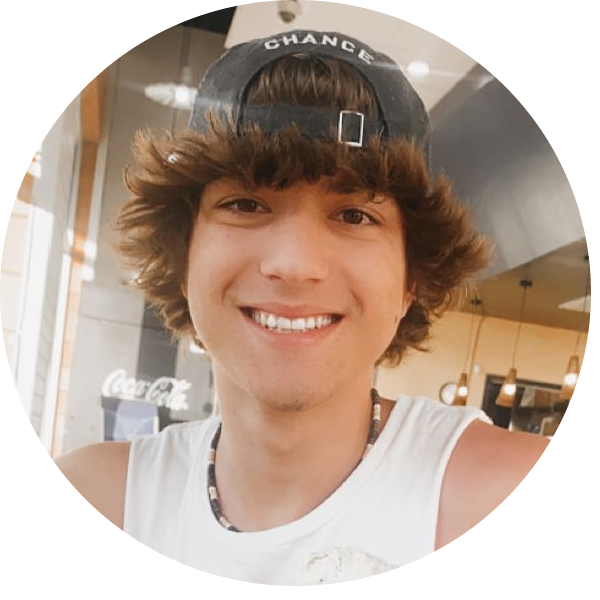
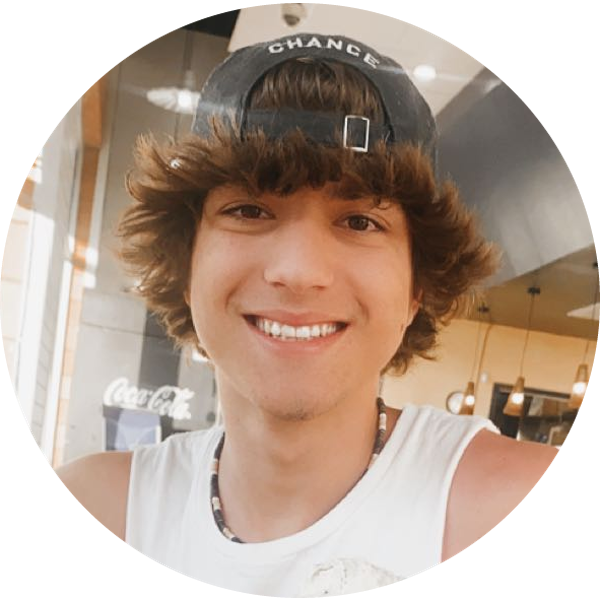
.

diff --git a/index.html b/index.html
@@ -20,16 +20,11 @@
 				<!-- Header -->
 					<header id="header">
 						<div class="logo">
-							<!-- <span class="icon fa-gem"></span>
-							<span class="image main"><img src="images/alex.png" alt="" /></span> -->
 							<style>
-								body { background-color: yellow; }
 								img { 
 								  width: 100%;
-								   
 								}
 							  </style>
-							  
 							  <img src="images/alex.png" />
 						</div>
 						<div class="content">
@@ -72,7 +67,7 @@
 						<!-- About -->
 							<article id="about">
 								<h2 class="major">About</h2>
-								<span class="image main"><img src="images/pic03.jpg" alt="" /></span>
+								<span class="image main"><img src="images/groupPhoto.png" alt="" /></span>
 								<p>Lorem ipsum dolor sit amet, consectetur et adipiscing elit. Praesent eleifend dignissim arcu, at eleifend sapien imperdiet ac. Aliquam erat volutpat. Praesent urna nisi, fringila lorem et vehicula lacinia quam. Integer sollicitudin mauris nec lorem luctus ultrices. Aliquam libero et malesuada fames ac ante ipsum primis in faucibus. Cras viverra ligula sit amet ex mollis mattis lorem ipsum dolor sit amet.</p>
 							</article>
 
